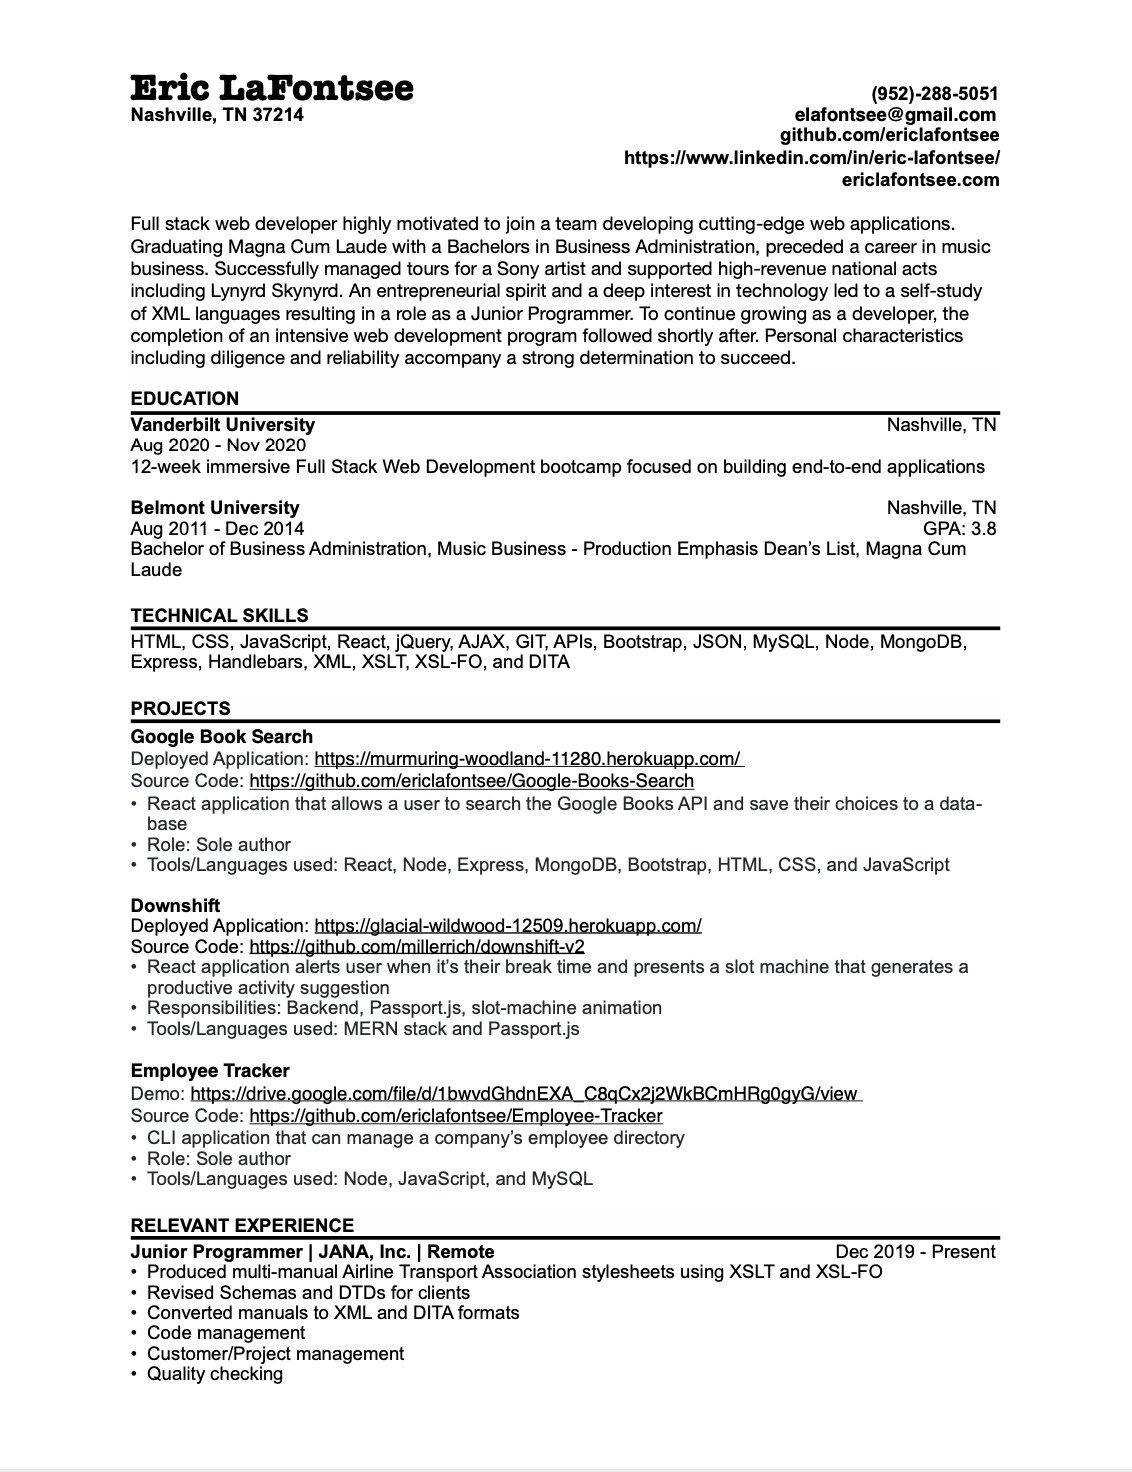
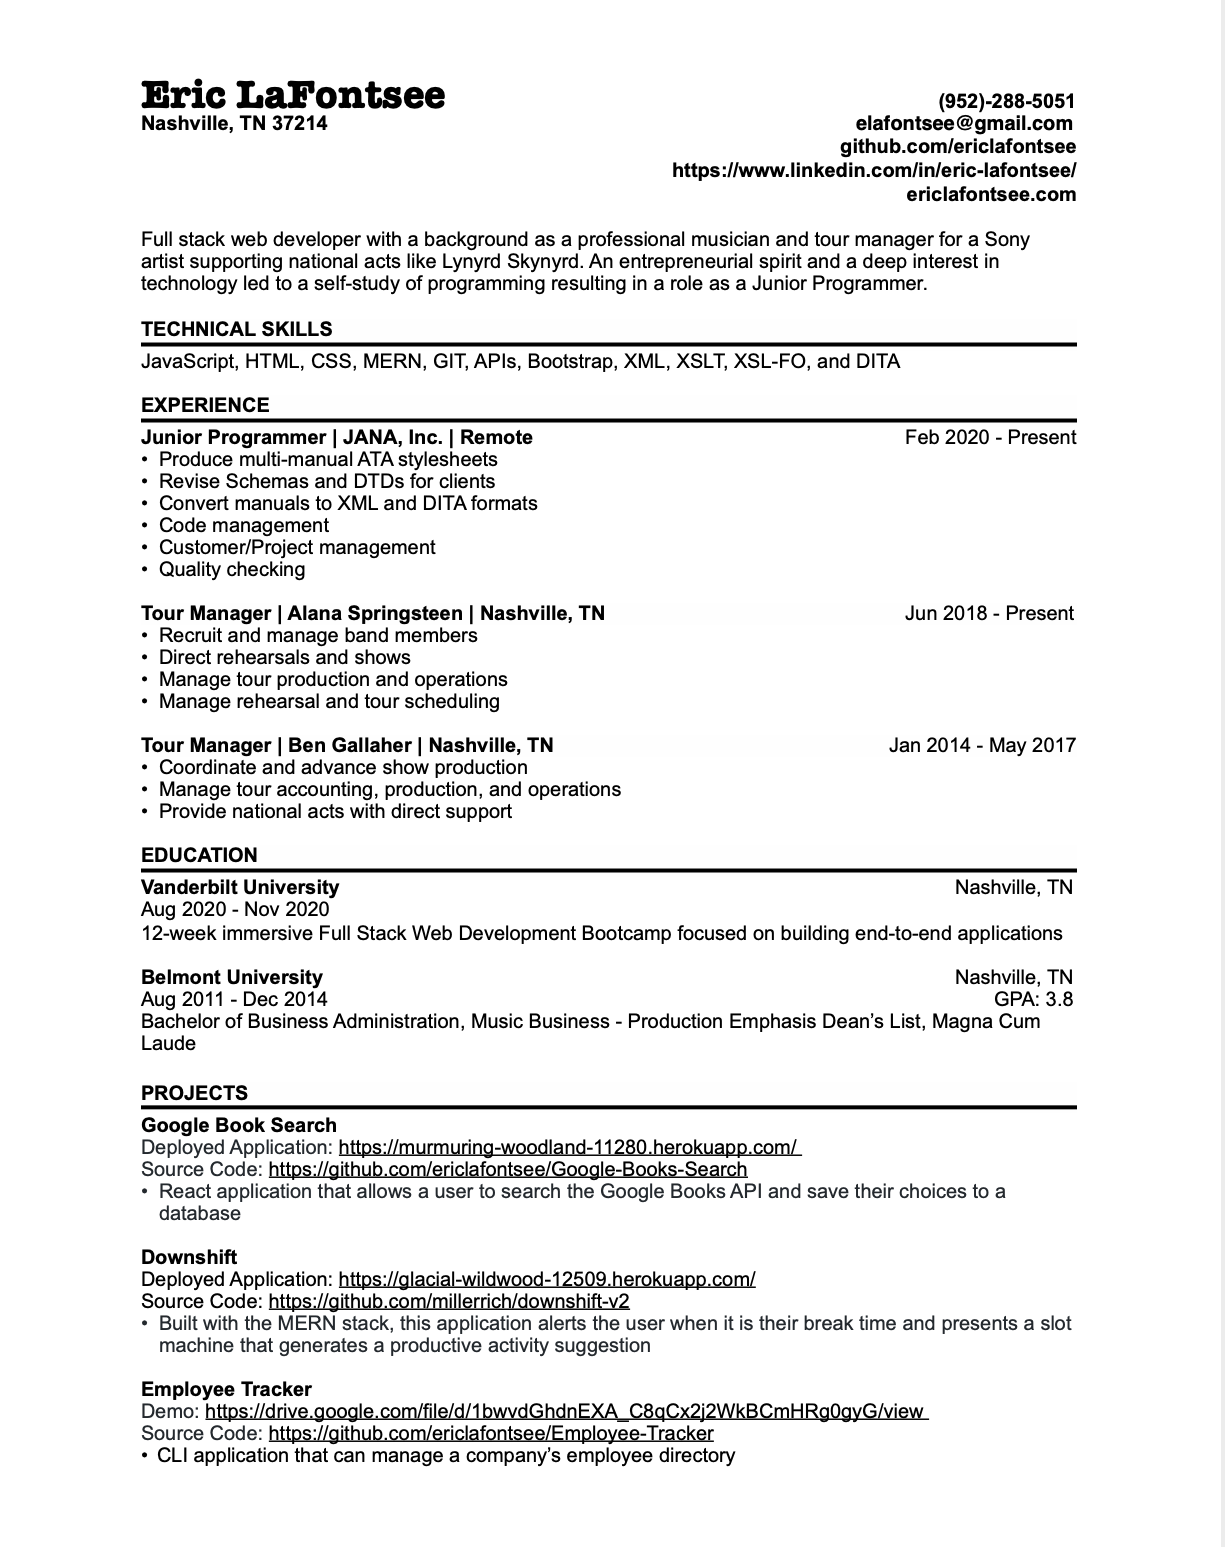
added resume page

Changed region(s): [[0.0928, 0.0625, 0.8966, 0.9688], [0.1237, 0.0312, 0.371, 0.0938]]

diff --git a/src/components/Resume/index.js b/src/components/Resume/index.js
@@ -1,0 +1,64 @@
+import React, { useState } from "react";
+import { useTrail, a } from "react-spring";
+import "./style.css";
+import { FontAwesomeIcon } from "@fortawesome/react-fontawesome";
+import { faDownload } from "@fortawesome/free-solid-svg-icons";
+ 
+
+function Trail({ open, children, ...props }) {
+  const items = React.Children.toArray(children);
+  const trail = useTrail(items.length, {
+    config: { mass: 5, tension: 1000, friction: 200 },
+    opacity: open ? 1 : 0,
+    x: open ? 0 : 20,
+    height: open ? 'auto' : 0,
+    from: { opacity: 0, x: 20, height: 0 }
+  });
+  return (
+    <div className="p-0 m-0" {...props}>
+        {trail.map(({ x, height, ...rest }, index) => (
+          <a.div
+            key={items[index]}
+            className="p-0 m-0"
+            style={{
+              ...rest,
+              transform: x.interpolate((x) => `translate3d(0,${x}px,0)`)
+            }}
+          >
+            <a.div style={{ height }}>{items[index]}</a.div>
+          </a.div>
+        ))}
+    </div>
+  );
+}
+
+
+function Resume() {
+  const [open, set] = useState(true);
+
+  return (
+    <>
+        <Trail open={open}>
+
+      <section className="container">
+        <div className="row mb-3">
+          <div className="col-md-10 mx-auto d-flex justify-content-center">
+            <div>
+              <a target="_blank" href="https://drive.google.com/file/d/1C9PPHpUqlApqWvdPoy7IOjx7Qaa7Tp6P/view?usp=sharing">
+                <FontAwesomeIcon size="4x" className="icon"   icon={faDownload} />
+              </a>
+              <img
+                src={process.env.PUBLIC_URL + "/images/resume_2021.png"}
+                className="resume card-img-top img-fluid w-100"
+                alt="Eric LaFontsee's Resume"
+              />
+            </div>
+          </div>
+        </div>
+      </section>
+      </Trail>
+    </>
+  );
+}
+
+export default Resume;

diff --git a/src/components/Contact/index.js b/src/components/Contact/index.js
@@ -40,27 +40,29 @@ function Contact() {
   const [open, set] = useState(true);
 
   return (
-    <Trail open={open} onClick={() => set((state) => !state)}>
-        <FontAwesomeIcon
-          className="icon phone"
-          icon={faPhone}
-          style={{ background: "none", color: "white", fontSize: "30pt" }}
-        />
-        <FontAwesomeIcon
-          className="icon email"
-          icon={faEnvelope}
-          style={{ background: "none", color: "white", fontSize: "30pt" }}
-        />
-        <FontAwesomeIcon
-          className="icon linkedin"
-          icon={faLinkedin}
-          style={{ background: "none", color: "white", fontSize: "30pt" }}
-        />
-        <FontAwesomeIcon
-          className="icon githubico"
-          icon={faGithub}
-          style={{ background: "none", color: "white", fontSize: "30pt" }}
-        />
+    <Trail open={open}>
+
+            <FontAwesomeIcon
+              className="icon phone"
+              icon={faPhone}
+              style={{ background: "none", color: "white", fontSize: "30pt" }}
+            />
+            <FontAwesomeIcon
+              className="icon email"
+              icon={faEnvelope}
+              style={{ background: "none", color: "white", fontSize: "30pt" }}
+            />
+            <FontAwesomeIcon
+              className="icon linkedin"
+              icon={faLinkedin}
+              style={{ background: "none", color: "white", fontSize: "30pt" }}
+            />
+            <FontAwesomeIcon
+              className="icon githubico"
+              icon={faGithub}
+              style={{ background: "none", color: "white", fontSize: "30pt" }}
+            />
+       
     </Trail>
   );
 }

diff --git a/src/pages/Home/index.js b/src/pages/Home/index.js
@@ -3,6 +3,7 @@ import About from "../../components/About";
 import Projects from "../../components/Projects";
 import Contact from "../../components/Contact";
 import Testimonials from "../../components/Testimonials";
+import Resume from "../../components/Resume";
 import "./style.css";
 import { BrowserRouter, Route, Switch } from "react-router-dom";
 
@@ -20,7 +21,8 @@ function Home() {
             <Route exact path={"/"} component={About} />
             <Route exact path={"/projects"} component={Projects} />
             <Route exact path={"/contact"} component={Contact} />
-            <Route exact path={"/resume"} component={Testimonials} />
+            <Route exact path={"/testimonials"} component={Testimonials} />
+            <Route exact path={"/resume"} component={Resume} />
           </Switch>
         </div>
         <div className="container-fluid polygon">

diff --git a/src/components/Header/index.js b/src/components/Header/index.js
@@ -40,7 +40,7 @@ function Header() {
       <div className="row">
         <div className="col-md-10">
         <img
-          className=" img logo"
+          className="img logo"
           src={process.env.PUBLIC_URL + "/images/logo.png"}
           alt={'logo'}
         />

diff --git a/src/components/Menu/Menu.js b/src/components/Menu/Menu.js
@@ -21,6 +21,9 @@ const Menu = ({ open, ...props }) => {
       <a href="/contact" tabIndex={tabIndex}>
        Contact
         </a>
+      <a href="/resume" tabIndex={tabIndex}>
+       Resume
+        </a>
     </StyledMenu>
   )
 }

diff --git a/src/components/Resume/style.css b/src/components/Resume/style.css
@@ -1,0 +1,9 @@
+.resume {
+    width: 100%;
+    box-shadow: 0 4px 8px 0 rgba(0, 0, 0, 0.2), 0 6px 20px 0 #556270;
+  }
+.icon{
+  color: white;
+  padding-bottom: 20px;
+}
+  

diff --git a/src/pages/Home/style.css b/src/pages/Home/style.css
@@ -7,7 +7,7 @@ body,
   width: 100%;
   overflow-x: hidden;
   user-select: none;
-  background: rgba(0,0,0,0.2);
+  background: rgba(0,0,0, 0.4);
 }
 
 /* #root > div {
